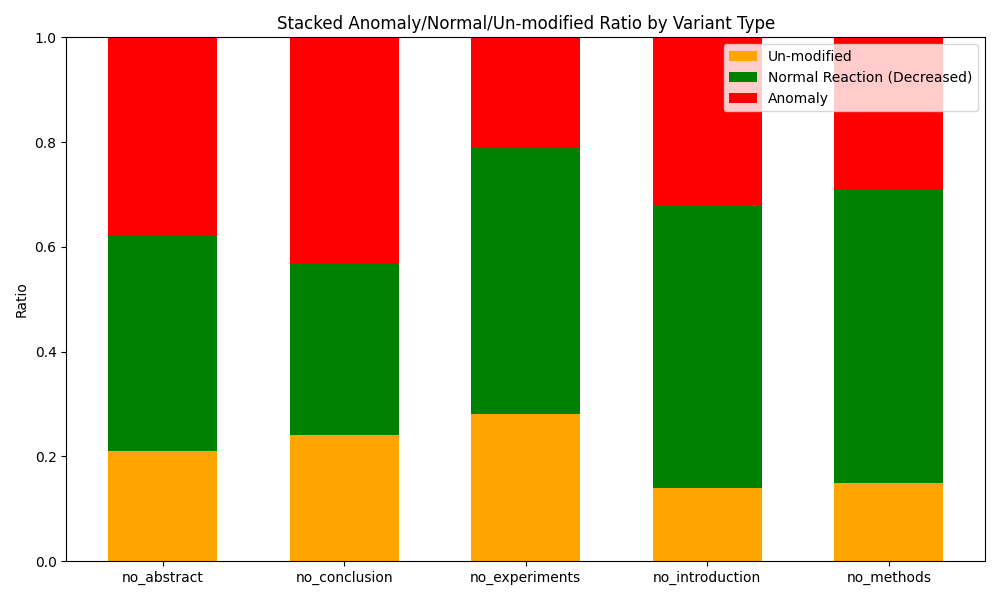
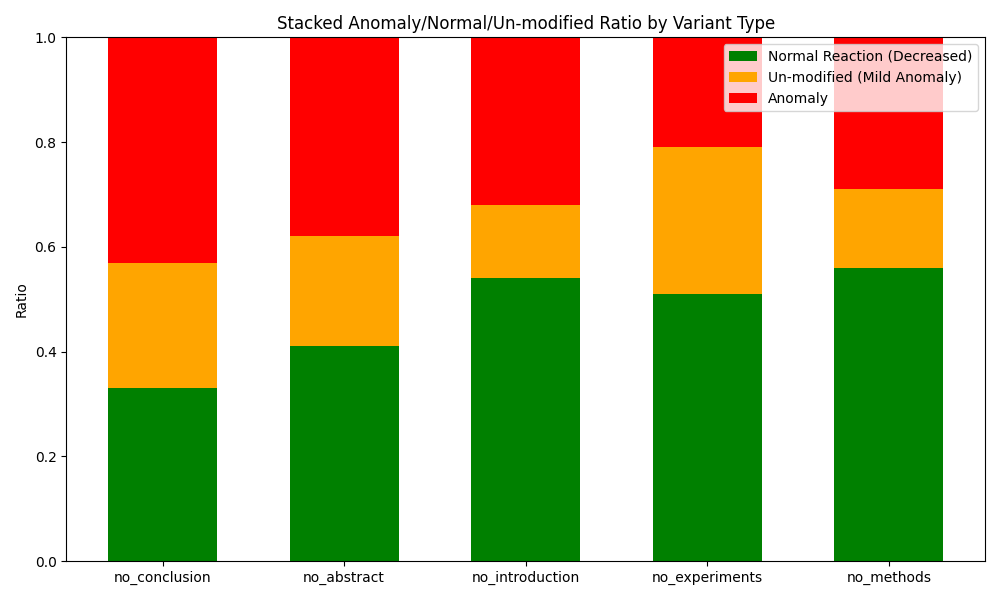
refactor: reorder variant display and adjust bar stacking for anomaly ratio plots
- Introduce severity-based variant ordering for consistent report display
- Update bar stacking order to traffic-light style: normal (green) at bottom, unmodified (orange) in middle, anomaly (red) on top
- Ensure consistent variant order in both single and combined plots

diff --git a/scripts/anomaly_ratio_stacked_bar.py b/scripts/anomaly_ratio_stacked_bar.py
@@ -34,6 +34,8 @@ df = df[df['rating'].notnull()]
 
 # 保证 original 在所有图表中最左边
 variant_order = sorted(df['variant_type'].unique(), key=lambda x: (x != 'original', x))
+# 报告展示顺序（由轻到重）
+severity_order = ['no_conclusion', 'no_abstract', 'no_introduction', 'no_experiments', 'no_methods']
 
 # 计算每个变体的异常、未修改、正常反应比例
 anomaly_counts = {v: 0 for v in variant_order if v != 'original'}
@@ -58,32 +60,36 @@ for base_id, group in df.groupby('base_paper_id'):
         else:
             normal_counts[vt] += 1
 
-# 计算比例
-anomaly_ratio = []
-unmod_ratio = []
-normal_ratio = []
+# 计算比例（先按变体名保存，再按报告顺序取出）
+ratio_by_variant = {}
 for vt in variant_order:
     if vt == 'original':
         continue
     total = total_counts[vt]
     if total == 0:
-        anomaly_ratio.append(0)
-        unmod_ratio.append(0)
-        normal_ratio.append(0)
+        ratio_by_variant[vt] = {'anomaly': 0, 'unmod': 0, 'normal': 0}
     else:
-        anomaly_ratio.append(anomaly_counts[vt]/total)
-        unmod_ratio.append(unmod_counts[vt]/total)
-        normal_ratio.append(normal_counts[vt]/total)
+        ratio_by_variant[vt] = {
+            'anomaly': anomaly_counts[vt]/total,
+            'unmod': unmod_counts[vt]/total,
+            'normal': normal_counts[vt]/total
+        }
 
 # 绘制堆叠柱状图
 import matplotlib
 matplotlib.use('Agg')
-labels = [vt for vt in variant_order if vt != 'original']
+non_original_variants = [vt for vt in variant_order if vt != 'original']
+labels = [vt for vt in severity_order if vt in non_original_variants] + \
+         [vt for vt in non_original_variants if vt not in severity_order]
+anomaly_ratio = [ratio_by_variant[vt]['anomaly'] for vt in labels]
+unmod_ratio = [ratio_by_variant[vt]['unmod'] for vt in labels]
+normal_ratio = [ratio_by_variant[vt]['normal'] for vt in labels]
 bar_width = 0.6
 fig, ax = plt.subplots(figsize=(10,6))
-ax.bar(labels, unmod_ratio, bar_width, label='Un-modified', color='orange')
-ax.bar(labels, normal_ratio, bar_width, bottom=unmod_ratio, label='Normal Reaction (Decreased)', color='green')
-ax.bar(labels, anomaly_ratio, bar_width, bottom=np.array(unmod_ratio)+np.array(normal_ratio), label='Anomaly', color='red')
+# 交通灯式顺序：绿（正常）在底，橙（轻异常/不变）在中，红（异常）在顶
+ax.bar(labels, normal_ratio, bar_width, label='Normal Reaction (Decreased)', color='green')
+ax.bar(labels, unmod_ratio, bar_width, bottom=normal_ratio, label='Un-modified (Mild Anomaly)', color='orange')
+ax.bar(labels, anomaly_ratio, bar_width, bottom=np.array(normal_ratio)+np.array(unmod_ratio), label='Anomaly', color='red')
 ax.set_ylabel('Ratio')
 ax.set_ylim(0,1)
 ax.set_title('Stacked Anomaly/Normal/Un-modified Ratio by Variant Type')
@@ -195,9 +201,9 @@ print(f"Saved plot and case csvs to {outdir}")
 # ========== 合并大图：异常比例堆叠柱状图 + 极端异常/异常 Accept 分组柱状图 ==========
 fig, axes = plt.subplots(1, 2, figsize=(18, 7))
 # 左侧：异常比例堆叠柱状图
-axes[0].bar(labels, unmod_ratio, bar_width, label='Un-modified', color='orange')
-axes[0].bar(labels, normal_ratio, bar_width, bottom=unmod_ratio, label='Normal Reaction (Decreased)', color='green')
-axes[0].bar(labels, anomaly_ratio, bar_width, bottom=np.array(unmod_ratio)+np.array(normal_ratio), label='Anomaly', color='red')
+axes[0].bar(labels, normal_ratio, 0.6, label='Normal Reaction (Decreased)', color='green')
+axes[0].bar(labels, unmod_ratio, 0.6, bottom=normal_ratio, label='Un-modified (Mild Anomaly)', color='orange')
+axes[0].bar(labels, anomaly_ratio, 0.6, bottom=np.array(normal_ratio)+np.array(unmod_ratio), label='Anomaly', color='red')
 axes[0].set_ylabel('Ratio')
 axes[0].set_ylim(0,1)
 axes[0].set_title('Stacked Anomaly/Normal/Un-modified Ratio')
